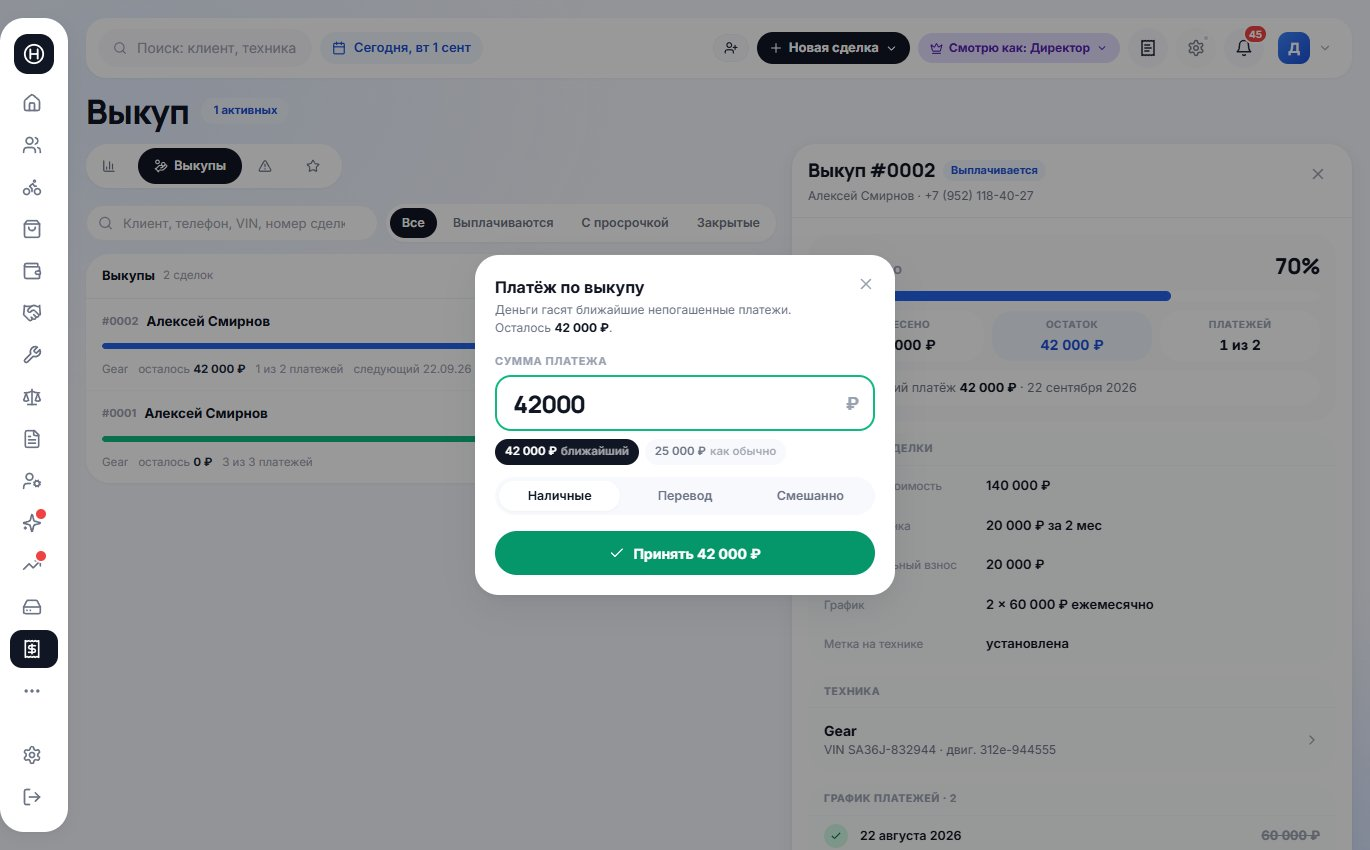
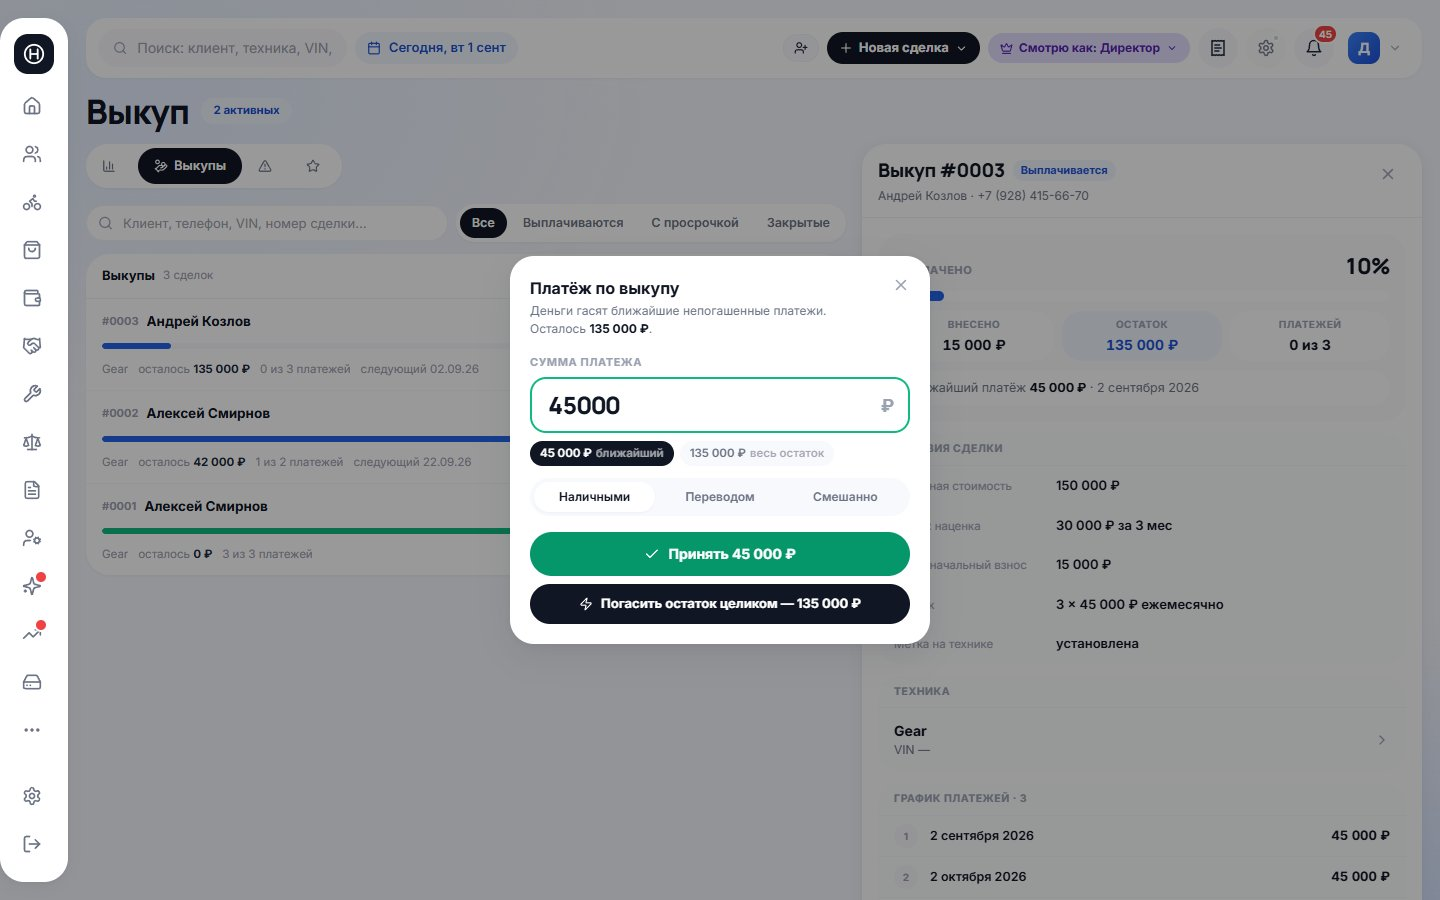
docs(развитие): пункт 2.27 — напоминания, способы расчёта, узкие экраны
Плюс расчёт видно в карточке продажи: чем рассчитались за технику,
без похода в журнал.

diff --git a/apps/web/src/data/progress.ts b/apps/web/src/data/progress.ts
@@ -1808,6 +1808,89 @@ export const progressItems: ProgressItem[] = [
     ],
   },
   {
+    id: "2.27",
+    updatedAt: "2026-09-01",
+    group: "fixes2",
+    title: "Напоминания о платежах, способы расчёта и вёрстка на узких экранах",
+    quote:
+      "Напомнить ему о платеже. На выплату инвесторам тоже напоминалка. Виды платежа надо сделать так же, как аренда оплачивается: наличные, перевод и смешанный — и в продажах, и в партнёрке. Если у нас остаток 45 тысяч, почему он предлагает 60 ещё выбрать? Шапка в две строчки. Пустое место в плитках. Чипсы схлопываются. На маленьких экранах карточка клиента не помещается на экран.",
+    status: "done",
+    note:
+      "Разбор замечаний по выкупу и вёрстке: напоминания о платежах и выплатах, единые способы расчёта, разумные суммы в окне платежа и поведение узких экранов.",
+    story: [
+      {
+        tag: "fix",
+        text:
+          "Появились напоминания — блок на дашборде над «Долгами к сбору». Показывает платежи по выкупу на завтра («позвонить и напомнить»), платежи на сегодня, просроченные первыми и дни выплат инвесторам. Рядом с каждой строкой — телефон, чтобы звонить сразу, а не искать номер в карточке; тап ведёт прямо в нужную сделку. Ничего не хранится «галочкой напомнили»: напоминание считается по графику, поэтому исчезает само, как только платёж принят. На телефоне тот же блок.",
+        imgs: [
+          {
+            src: "/progress/v6-reminders.jpg",
+            label: "Дашборд: кому звонить сегодня и завтра",
+          },
+        ],
+      },
+      {
+        tag: "bug",
+        text:
+          "В окне платежа по выкупу подсказки сумм брались из условий сделки: при остатке 45 000 ₽ CRM предлагала «регулярный платёж» 60 000 ₽ — то есть переплату.",
+      },
+      {
+        tag: "fix",
+        text:
+          "Теперь подсказки никогда не превышают остаток. Первой идёт сумма, которую нужно внести прямо сейчас — просрочка или ближайший платёж; за ней суммы, которыми клиент платил раньше («как обычно»); последней — весь остаток. Если ввести больше остатка, поле подсветится и примется ровно остаток. Кнопка «Погасить остаток целиком» показывается только когда это действительно другая сумма.",
+        imgs: [
+          {
+            src: "/progress/v6-buyout-payment.jpg",
+            label: "Суммы к оплате — по делу, без переплаты",
+          },
+        ],
+      },
+      {
+        tag: "fix",
+        text:
+          "Способ расчёта стал единым для всей CRM: наличные, перевод или смешанно с разбивкой сумм. Добавлен в платёж по выкупу, в подписание продажи (там деньги приходят разом, поэтому расчёт фиксируется при подписании) и в выплату инвестору — в истории выплат теперь видно, чем платили. Для смешанного храним обе доли: без них «смешанный» не свести с кассой.",
+        imgs: [
+          {
+            src: "/progress/v6-investor-payout.jpg",
+            label: "Выплата инвестору: наличными, переводом или смешанно",
+          },
+        ],
+      },
+      {
+        tag: "bug",
+        text:
+          "Верхняя панель на среднем экране переносилась на вторую строку, плитки выкупа оставляли пустую ячейку рядом с «Заработком», а вкладки раздела при открытой карточке сдавливали текст.",
+      },
+      {
+        tag: "fix",
+        text:
+          "Шапка теперь всегда в одну строку: первым сжимается поиск, затем подписи кнопок сворачиваются до иконок, дата уходит на узком экране. Плитки показателей в «Выкупе» и «Продажах» перестроены — когда в ряд помещается три из пяти, последние две растягиваются на всю ширину, дыр не остаётся. Вкладки при открытой карточке плавно сжимаются до иконок, а не ломают текст.",
+        imgs: [
+          {
+            src: "/progress/v6-buyout-tiles.jpg",
+            label: "Плитки заполняют ряд целиком",
+          },
+        ],
+      },
+      {
+        tag: "bug",
+        text:
+          "На экране уже 1024 px карточка клиента открывалась ПОД списком: выбрал человека — и смотришь в хвост списка из десяти строк, карточку надо найти прокруткой.",
+      },
+      {
+        tag: "fix",
+        text:
+          "Узкий экран теперь ведёт себя как телефон: выбрал клиента — список и его фильтры уступают место карточке, наверху кнопка «Назад к списку». Две колонки остаются там, где они реально помещаются.",
+        imgs: [
+          {
+            src: "/progress/v6-client-narrow.jpg",
+            label: "Карточка клиента на узком экране — целиком",
+          },
+        ],
+      },
+    ],
+  },
+  {
     id: "2.26",
     updatedAt: "2026-09-01",
     group: "fixes2",

diff --git a/apps/web/src/pages/sales/SaleDealDrawer.tsx b/apps/web/src/pages/sales/SaleDealDrawer.tsx
@@ -1,5 +1,6 @@
 import {
   Ban,
+  Banknote,
   ChevronRight,
   FileText,
   Pencil,
@@ -100,6 +101,21 @@ export function SaleDealDrawer({
               tone={profit >= 0 ? "good" : "bad"}
             />
           </div>
+
+          {/* Чем рассчитались — видно сразу, не заглядывая в журнал (01.09) */}
+          {deal.status === "signed" && (
+            <div className="flex items-center gap-2 rounded-xl bg-surface-soft/70 px-3 py-2 text-[12.5px]">
+              <Banknote size={14} className="shrink-0 text-muted-2" />
+              <span className="text-muted">Расчёт</span>
+              <span className="ml-auto font-semibold text-ink">
+                {deal.payMethod === "mixed"
+                  ? `${fmt(deal.payCash ?? 0)} ₽ наличными + ${fmt(deal.payTransfer ?? 0)} ₽ переводом`
+                  : deal.payMethod === "transfer"
+                    ? "переводом"
+                    : "наличными"}
+              </span>
+            </div>
+          )}
 
           {/* Техника */}
           <Section title="Техника">

diff --git a/apps/web/src/lib/api/sales.ts b/apps/web/src/lib/api/sales.ts
@@ -33,6 +33,10 @@ export type SaleDeal = {
   purchasePrice: number | null;
   managerCommissionPct: number | null;
   managerCommission: number | null;
+  /** Чем рассчитались за технику — фиксируется при подписании (01.09). */
+  payMethod?: "cash" | "transfer" | "mixed";
+  payCash?: number;
+  payTransfer?: number;
   scooterName: string | null;
   modelName: string | null;
   vin: string | null;
